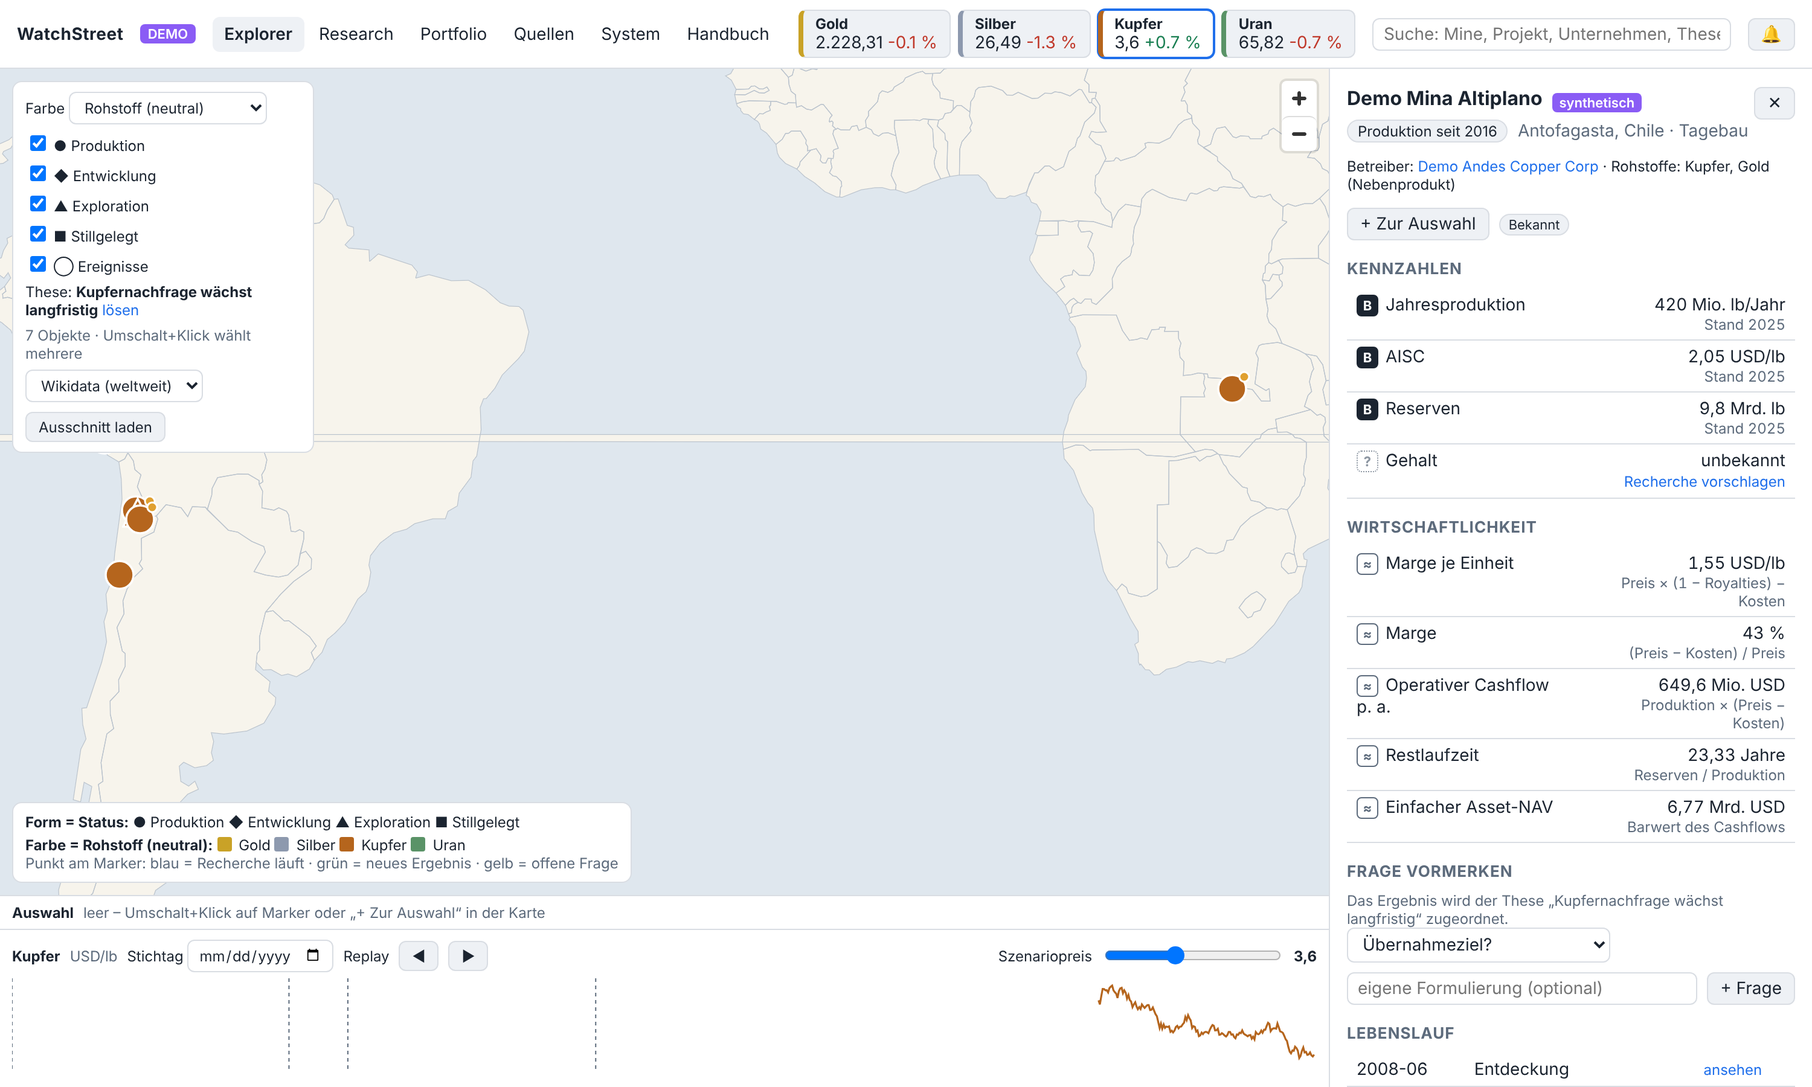
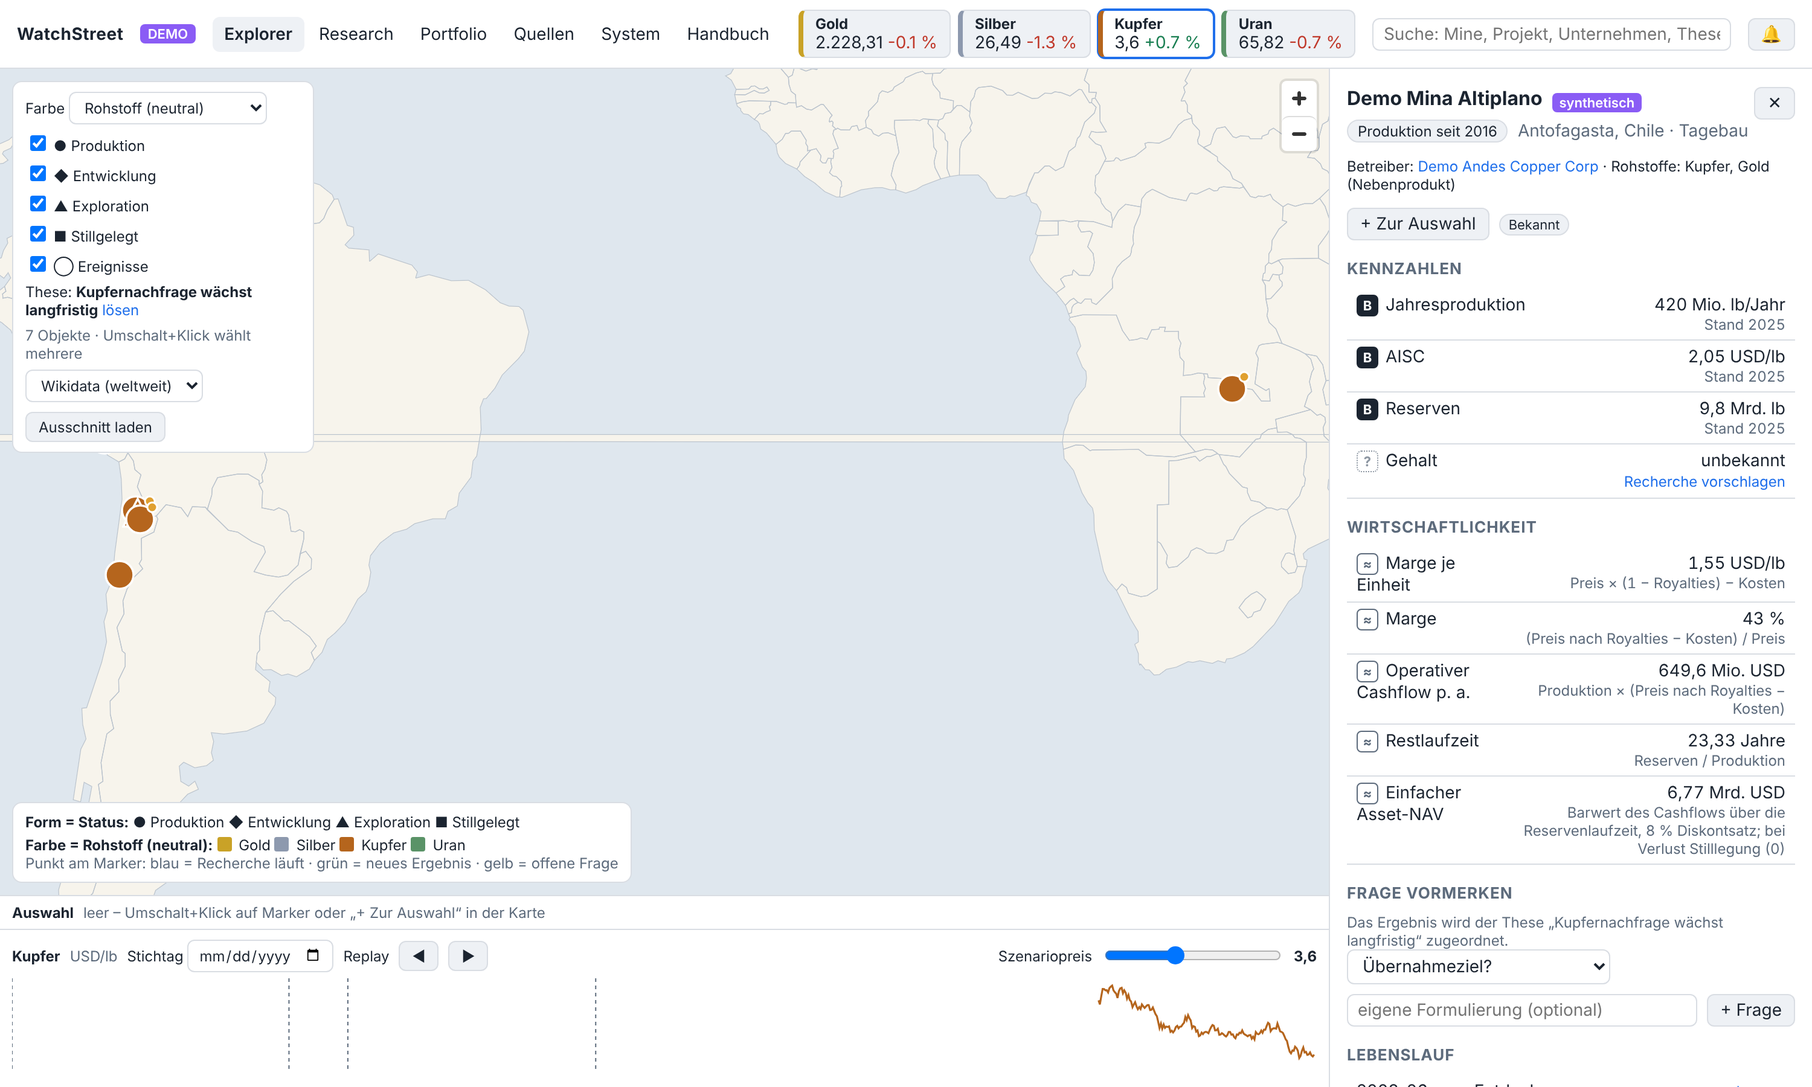
Act on the second investor review of the company view
State when the reported cash runs out, apply the reference date to the
share price and financings, validate financing entries, stop duplicate
user proposals, and show how complete the asset NAV is. Price leverage
is hidden where it does not apply and no longer counts losing mines.

Claude-Session: https://claude.ai/code/session_01DPD6q6Wm3yEuK1UiySpCLg

Changed region(s): [[0.744, 0.5289, 0.992, 1.0], [0.93, 0.9022, 0.992, 0.9333], [0.806, 0.4978, 0.837, 0.5289]]

diff --git a/frontend/src/CompanyPanel.tsx b/frontend/src/CompanyPanel.tsx
@@ -29,7 +29,7 @@ export function CompanyPanel({ id, state, update, tick, onChanged, notify }: Pro
   const [open, setOpen] = useState("");
   const [entry, setEntry] = useState({ metric: "cash", value: "" });
   const [person, setPerson] = useState({ name: "", role: "", track_record: "" });
-  const [fin, setFin] = useState({ day: "", amount: "", price: "", note: "" });
+  const [fin, setFin] = useState({ day: "", amount: "", price: "", note: "", kind: "equity" });
   useEffect(() => {
     get(`/companies/${id}`, viewParams(state)).then(setData).catch(() => setData(null));
   }, [id, state.asof, state.view, state.sc, tick]);
@@ -50,7 +50,7 @@ export function CompanyPanel({ id, state, update, tick, onChanged, notify }: Pro
     act(() => post("/facts", { subject_type: "company", subject_id: id, metric: entry.metric, ...(isText ? { text: entry.value } : { value: Number(entry.value) }) }), "Kennzahl gespeichert").then(() => setEntry({ ...entry, value: "" }));
   const savePerson = () => act(() => post(`/companies/${id}/people`, person), "Person erfasst").then(() => setPerson({ name: "", role: "", track_record: "" }));
   const saveFin = () =>
-    act(() => post(`/companies/${id}/financings`, { day: fin.day, note: fin.note, ...(fin.amount ? { amount: Number(fin.amount) } : {}), ...(fin.price ? { price: Number(fin.price) } : {}) }), "Finanzierung erfasst").then(() => setFin({ day: "", amount: "", price: "", note: "" }));
+    act(() => post(`/companies/${id}/financings`, { day: fin.day, note: fin.note, kind: fin.kind, ...(fin.amount ? { amount: Number(fin.amount) } : {}), ...(fin.price ? { price: Number(fin.price) } : {}) }), "Finanzierung erfasst").then(() => setFin({ day: "", amount: "", price: "", note: "", kind: "equity" }));
   const answered = data.checklist.filter((q: Json) => q.answered).length;
   return (
     <div data-testid="company-panel">
@@ -124,13 +124,17 @@ export function CompanyPanel({ id, state, update, tick, onChanged, notify }: Pro
           <summary className="small">Finanzierung erfassen</summary>
           <div className="row">
             <input type="date" value={fin.day} onChange={(e) => setFin({ ...fin, day: e.target.value })} data-testid="fin-day" />
+            <select value={fin.kind} onChange={(e) => setFin({ ...fin, kind: e.target.value })}>
+              <option value="equity">Eigenkapital</option><option value="debt">Fremdkapital</option><option value="royalty_sale">Royalty-Verkauf</option>
+            </select>
             <input type="number" placeholder="Betrag USD" value={fin.amount} onChange={(e) => setFin({ ...fin, amount: e.target.value })} />
             <input type="number" placeholder="Preis je Aktie" value={fin.price} onChange={(e) => setFin({ ...fin, price: e.target.value })} />
           </div>
           <div className="row">
             <input className="grow" placeholder="Notiz, z. B. mit Warrants, Zeichner" value={fin.note} onChange={(e) => setFin({ ...fin, note: e.target.value })} />
-            <button disabled={!fin.day} onClick={saveFin}>Speichern</button>
+            <button disabled={!fin.day || !fin.amount} onClick={saveFin}>Speichern</button>
           </div>
+          <p className="small muted">Kasse und Aktienzahl oben bleiben auf dem Bilanzstichtag; eine spätere Finanzierung wird dort nicht eingerechnet.</p>
         </details>
       </div>
 
@@ -142,8 +146,9 @@ export function CompanyPanel({ id, state, update, tick, onChanged, notify }: Pro
 
       <div className="section">
         <h3>Preishebel (anteiliger Cashflow p. a. der produzierenden Objekte)</h3>
+        {data.sensitivity.length === 0 && <p className="muted small">Nicht anwendbar: kein produzierendes Objekt mit Eigentumsanteil und bekannten Kosten.</p>}
         <table><tbody>
-          <tr>{data.sensitivity.map((row: Json) => <th key={row.change}>{row.change === 0 ? "heute" : `${row.change > 0 ? "+" : ""}${row.change * 100} %`}</th>)}</tr>
+          <tr>{data.sensitivity.map((row: Json) => <th key={row.change}>{row.change === 0 ? (state.sc ? "Szenario" : "heute") : `${row.change > 0 ? "+" : ""}${row.change * 100} %`}</th>)}</tr>
           <tr>{data.sensitivity.map((row: Json) => <td key={row.change} className={`n ${row.cash_flow < 0 ? "down" : ""}`}>{num(row.cash_flow)}</td>)}</tr>
         </tbody></table>
         <p className="small muted">Alle Rohstoffpreise bewegen sich gleich; Kosten bleiben fest.</p>

diff --git a/src/watchstreet/services/companies.py b/src/watchstreet/services/companies.py
@@ -6,6 +6,7 @@ them. Everything derived here names its formula and inherits the weakest origin 
 
 from collections.abc import Mapping
 from dataclasses import dataclass, replace
+from datetime import date
 from typing import Any
 
 from sqlalchemy import select
@@ -88,6 +89,28 @@ def _derived(
     }
 
 
+def _cash_empty(
+    empty_on: date | None, reference: date, inputs: tuple[Fact | None, ...]
+) -> dict[str, Any]:
+    """States plainly when the reported cash is used up; an old balance sheet must not look fresh."""
+    formula = "Bilanzstichtag + Reichweite; spätere Finanzierungen sind nicht eingerechnet"
+    label = "Kasse rechnerisch leer"
+    if empty_on is None:
+        return {
+            "metric": "cash_empty",
+            "label": label,
+            "provenance": Provenance.UNKNOWN,
+            "formula": formula,
+        }
+    word = "seit" if empty_on <= reference else "am"
+    return {
+        "metric": "cash_empty", "label": label, "text": f"{word} {empty_on:%d.%m.%Y}",
+        "provenance": Provenance.DERIVED, "claim_kind": "actual", "formula": formula,
+        "stale": empty_on <= reference, "origin": DataOrigin.ENGINE,
+        "input_fact_ids": [f.id for f in inputs if f is not None],
+    }  # fmt: skip
+
+
 def _value(fact: Fact | None) -> float | None:
     return fact.value if fact else None
 
@@ -100,9 +123,16 @@ def owner_share(stakes: list[Stake], company_id: int) -> float:
     return (shares[0] or 0.0) / PERCENT if shares else 0.0
 
 
-def _attributable(bundle: Bundle, company_id: int, ctx: ViewContext) -> tuple[float | None, float]:
-    """(sum of simple asset NAVs, sum of yearly cash flow) attributable to the company."""
-    nav_total, cash_flow, any_nav = 0.0, 0.0, False
+@dataclass(frozen=True)
+class Attributable:
+    nav: float | None  # sum of the simple asset NAVs, by ownership
+    cash_flow: float  # per year, by ownership
+    valued: int  # producing assets that entered the NAV
+    producing: int
+
+
+def _attributable(bundle: Bundle, company_id: int, ctx: ViewContext) -> Attributable:
+    nav_total, cash_flow, valued, producing = 0.0, 0.0, 0, 0
     for asset in bundle.assets:
         period = status_on(asset, ctx.reference)
         if period is None or period.status not in PRODUCING_STATUSES:
@@ -110,14 +140,15 @@ def _attributable(bundle: Bundle, company_id: int, ctx: ViewContext) -> tuple[fl
         facts = latest_per_metric(bundle.facts.get(asset.id, []), ctx.as_of, ctx.view)
         econ = asset_economics(asset, facts, period.status, ctx)
         share = owner_share(stakes_on(asset, ctx.reference), company_id)
-        if econ is None:
+        producing += 1
+        if econ is None or share <= 0:
             continue
         if econ.result.nav is not None:
             nav_total += econ.result.nav.mid * share
-            any_nav = True
+            valued += 1
         if econ.result.cash_flow is not None:
-            cash_flow += econ.result.cash_flow.mid * share
-    return (nav_total if any_nav else None), cash_flow
+            cash_flow += max(econ.result.cash_flow.mid, 0.0) * share  # a losing mine is closed
+    return Attributable(nav_total if valued else None, cash_flow, valued, producing)
 
 
 def _open_capex(
@@ -144,8 +175,10 @@ def _sensitivity(bundle: Bundle, company_id: int, ctx: ViewContext) -> list[dict
     rows = []
     for change in SENSITIVITY_FACTORS:
         shifted = replace(ctx, prices={k: v * (1 + change) for k, v in ctx.prices.items()})
-        rows.append({"change": change, "cash_flow": _attributable(bundle, company_id, shifted)[1]})
-    return rows
+        rows.append(
+            {"change": change, "cash_flow": _attributable(bundle, company_id, shifted).cash_flow}
+        )
+    return rows if _attributable(bundle, company_id, ctx).valued else []
 
 
 def _burdens(bundle: Bundle, ctx: ViewContext) -> list[dict[str, Any]]:
@@ -172,7 +205,7 @@ def _checklist(
 ) -> list[dict[str, Any]]:
     """Answered means evidence is on file; it does not mean the answer is good."""
     evidence = {
-        "people": bool(people),
+        "people": any(p.track_record.strip() for p in people),
         "financings": bool(financings),
         "costs": any(m["provenance"] != Provenance.UNKNOWN for c in cards for m in c["economics"]),
         "royalties": bool(burdens),
@@ -199,24 +232,31 @@ def company_view(
     financings = list(
         session.scalars(
             select(Financing)
-            .where(Financing.company_id == company.id)
+            .where(Financing.company_id == company.id, Financing.day <= ctx.reference)
             .order_by(Financing.day.desc())
         )
     )
     cash, debt, burn = facts.get("cash"), facts.get("debt"), facts.get("burn_rate")
     shares, diluted = facts.get("shares_outstanding"), facts.get("shares_diluted")
-    quote = market.try_quote(company.stock.symbol) if company.stock else None
+    # only today's quote is known here; a past reference date gets no price instead of today's
+    quote = market.try_quote(company.stock.symbol) if company.stock and not ctx.as_of else None
     market_cap = quote.price * shares.value if quote and shares and shares.value else None
     net = ratios.net_cash(_value(cash), _value(debt))
-    nav_sum, _cash_flow = _attributable(bundle, company.id, ctx)
-    burdens = _burdens(bundle, ctx)
+    attributable = _attributable(bundle, company.id, ctx)
+    nav_sum = attributable.nav
     capex, capex_facts = _open_capex(bundle, company.id, ctx)
+    runway = ratios.runway_months(_value(cash), _value(burn))
+    empty_on = ratios.cash_empty_on(cash.period_end if cash else None, runway)
+    gap = ratios.funding_gap(capex, _value(cash))
+    cap_diluted = quote.price * diluted.value if quote and diluted and diluted.value else None
+    burdens = _burdens(bundle, ctx)
     derived = [
         _derived("net_cash", "Nettokasse", net, "USD", "Kasse − Finanzschulden", (cash, debt)),
         _derived(
-            "runway_months", "Reichweite", ratios.runway_months(_value(cash), _value(burn)),
+            "runway_months", "Reichweite ab Bilanzstichtag", runway,
             "Monate", "Kasse / Mittelabfluss je Quartal × 3", (cash, burn),
         ),
+        _cash_empty(empty_on, ctx.reference, (cash, burn)),
         _derived(
             "dilution_overhang", "Verwässerungsüberhang",
             ratios.dilution_overhang(_value(shares), _value(diluted)),
@@ -224,6 +264,10 @@ def company_view(
         ),
         _derived(
             "market_cap", "Börsenwert", market_cap, "USD", "Kurs × ausstehende Aktien", (shares,)
+        ),
+        _derived(
+            "market_cap_diluted", "Börsenwert voll verwässert", cap_diluted, "USD",
+            "Kurs × Aktien voll verwässert", (diluted,),
         ),
         _derived(
             "enterprise_value", "Unternehmenswert (EV)",
@@ -235,13 +279,20 @@ def company_view(
             "Σ Capex laut Studie × Eigentumsanteil, nur Objekte ohne Produktion", tuple(capex_facts),
         ),
         _derived(
-            "funding_gap", "Finanzierungslücke", ratios.funding_gap(capex, _value(cash)), "USD",
+            "funding_gap", "Finanzierungslücke", gap, "USD",
             "Capex der Projekte − Kasse (mindestens 0): muss über Aktien, Schulden oder Royalties beschafft werden",
             (cash, *capex_facts),
         ),
         _derived(
+            "gap_to_market_cap", "Finanzierungslücke / Börsenwert", ratios.ratio(gap, market_cap),
+            "×", "Finanzierungslücke / Börsenwert: Mass für die bevorstehende Verwässerung",
+            (cash, shares, *capex_facts),
+        ),
+        _derived(
             "nav_sum", "Summe einfacher Asset-NAV (anteilig)", nav_sum, "USD",
-            "Σ Asset-NAV × Eigentumsanteil – ohne Steuern, Investitionen, Schulden", (),
+            f"Σ Asset-NAV × Eigentumsanteil, aus {attributable.valued} von "
+            f"{attributable.producing} produzierenden Objekten – ohne Steuern, Investitionen, Schulden",
+            (),
         ),
         _derived(
             "p_nav", "Börsenwert / Asset-NAV", ratios.ratio(market_cap, nav_sum), "×",

diff --git a/tests/test_explorer.py b/tests/test_explorer.py
@@ -837,3 +837,25 @@ def test_funding_gap_ev_and_user_entries_for_people_and_financings(client, sessi
 def _cash(client, company_id):
     metrics = client.get(f"{API}/companies/{company_id}").json()["metrics"]
     return next(m["value"] for m in metrics if m["metric"] == "cash")
+
+
+def test_company_view_is_honest_about_dates_duplicates_and_coverage(client, session):
+    junior = _company_id(session, "Demo Junior Explorers Ltd")
+    view = client.get(f"{API}/companies/{junior}").json()
+    derived = {m["metric"]: m for m in view["derived"]}
+    assert derived["cash_empty"]["text"].startswith("seit ") and derived["cash_empty"]["stale"]
+    assert derived["gap_to_market_cap"]["value"] > 1
+    assert derived["market_cap_diluted"]["value"] > derived["market_cap"]["value"]
+    assert view["sensitivity"] == []  # nothing producing: not applicable instead of zeros
+    future = {"day": "2099-01-01", "amount": 1e6}
+    assert client.post(f"{API}/companies/{junior}/financings", json=future).status_code == 422
+    assert (
+        client.post(f"{API}/companies/{junior}/financings", json={"day": "2026-01-01"}).status_code
+        == 422
+    )
+    past = client.get(f"{API}/companies/{junior}", params={"asof": "2020-01-01"}).json()
+    assert past["financings"] == [] and past["price"] is None
+    body = {"subject_type": "company", "subject_id": junior, "template": "management"}
+    first = client.post(f"{API}/proposals", json=body).json()
+    second = client.post(f"{API}/proposals", json=body).json()
+    assert first["id"] == second["id"]

diff --git a/src/watchstreet/web/api_explorer.py b/src/watchstreet/web/api_explorer.py
@@ -267,7 +267,7 @@ class PersonBody(BaseModel):
 class FinancingBody(BaseModel):
     day: date
     kind: Literal["equity", "debt", "royalty_sale"] = "equity"
-    amount: float | None = Field(default=None, gt=0)
+    amount: float = Field(gt=0)
     price: float | None = Field(default=None, gt=0)
     shares: float | None = Field(default=None, gt=0)
     note: str = ""
@@ -288,6 +288,8 @@ def add_person(company_id: int, body: PersonBody, session: SessionDep) -> dict[s
 def add_financing(company_id: int, body: FinancingBody, session: SessionDep) -> dict[str, int]:
     """A user entry: one capital raise."""
     company = get_or_404(session, Company, company_id)
+    if body.day > utcnow().date():
+        raise HTTPException(status_code=422, detail="Das Datum liegt in der Zukunft")
     financing = Financing(company_id=company.id, origin=DataOrigin.USER, **body.model_dump())
     session.add(financing)
     log_change(

diff --git a/src/watchstreet/economics/company.py b/src/watchstreet/economics/company.py
@@ -1,6 +1,9 @@
 """Company-level ratios (pure). Missing inputs yield ``None``, never a guess."""
 
+from datetime import date, timedelta
+
 MONTHS_PER_QUARTER = 3.0
+DAYS_PER_MONTH = 30.44
 
 
 def net_cash(cash: float | None, debt: float | None) -> float | None:
@@ -37,6 +40,13 @@ def funding_gap(capex: float | None, cash: float | None) -> float | None:
     if capex is None or cash is None:
         return None
     return max(capex - cash, 0.0)
+
+
+def cash_empty_on(as_at: date | None, months: float | None) -> date | None:
+    """The day the cash runs out if the burn continues from the balance sheet date."""
+    if as_at is None or months is None:
+        return None
+    return as_at + timedelta(days=round(months * DAYS_PER_MONTH))
 
 
 def ratio(numerator: float | None, denominator: float | None) -> float | None:

diff --git a/src/watchstreet/services/world.py b/src/watchstreet/services/world.py
@@ -274,14 +274,19 @@ def economics_payload(econ: AssetEconomics | None, commodity: str) -> list[dict[
             econ,
         ),
         _derived(
-            "margin_pct", "Marge", result.margin_pct, "Anteil", "(Preis − Kosten) / Preis", econ
+            "margin_pct",
+            "Marge",
+            result.margin_pct,
+            "Anteil",
+            "(Preis nach Royalties − Kosten) / Preis",
+            econ,
         ),
         _derived(
             "cash_flow",
             "Operativer Cashflow p. a.",
             result.cash_flow,
             "USD",
-            "Produktion × (Preis − Kosten)",
+            "Produktion × (Preis nach Royalties − Kosten)",
             econ,
         ),
         _derived("mine_life", "Restlaufzeit", life, "Jahre", "Reserven / Produktion", econ),

diff --git a/src/watchstreet/services/proposals.py b/src/watchstreet/services/proposals.py
@@ -197,6 +197,14 @@ def create_proposal(  # noqa: PLR0913
         msg = "Die Frage darf nicht leer sein"
         raise ProposalError(msg)
     existing = open_proposals(session, subject_type, subject_id)
+    same = [
+        p
+        for p in existing
+        if (p.origin, p.template_key, p.params, p.question)
+        == (DataOrigin.USER, template_key, params, text)
+    ]
+    if origin == DataOrigin.USER and same:
+        return same[0]  # a second click must not queue the same question twice
     if origin != DataOrigin.USER:
         duplicate = any(p.template_key == template_key and p.params == params for p in existing)
         if duplicate or len(existing) >= MAX_OPEN_PROPOSALS_PER_SUBJECT:

diff --git a/src/watchstreet/services/facts.py b/src/watchstreet/services/facts.py
@@ -120,9 +120,9 @@ def current_fact(
 
 def display_value(fact: Fact) -> str:
     if fact.value is not None:
-        return f"{fact.value:g} {fact.unit}".strip()
+        return f"{fact.value:,.10g} {fact.unit}".strip()
     if fact.value_low is not None and fact.value_high is not None:
-        return f"{fact.value_low:g}–{fact.value_high:g} {fact.unit}".strip()
+        return f"{fact.value_low:,.10g}–{fact.value_high:,.10g} {fact.unit}".strip()
     return fact.text
 
 

diff --git a/docs/spec/requirements-review-2026-11.md b/docs/spec/requirements-review-2026-11.md
@@ -63,6 +63,25 @@ ihrem öffentlich bekannten Vorgehen.
 | SOLL | Nebenproduktpreise im Szenario berücksichtigen | Mengen als Fact |
 | KANN | Quellen nach Trefferhistorie gewichten | Bewertung am Dokument |
 
+## Zweiter Durchlauf (Rule-Sicht, nach Umsetzung der Unternehmensansicht)
+
+Behoben: Datum „Kasse rechnerisch leer“, Stichtag wirkt auch auf Kurs und Finanzierungen, Prüfung des
+Finanzierungsformulars (Betrag Pflicht, kein Zukunftsdatum, Art wählbar), keine doppelten eigenen
+Vorschläge, Preishebel „nicht anwendbar“ statt Nullen und ohne Verlustminen, NAV-Summe nennt ihre
+Abdeckung und zählt nur Objekte mit Eigentumsanteil, Börsenwert voll verwässert, Lücke als Vielfaches
+des Börsenwerts, Formeltexte nennen die Royalty, Zahlen im Lagebericht ohne Exponentialschreibweise.
+
+| Prio | Offen | Begründung |
+|---|---|---|
+| MUSS | Finanzierungen strukturiert (Warrants, Abschlag, Zeichner) mit Pro-forma-Wirkung auf Kasse und Aktienzahl | die Konditionen sind die eigentliche Verwässerung |
+| MUSS | Projektbewertung nach Capex: Studien-NPV/IRR gegen Börsenwert | „Preis gegen Wert“ für Entwickler |
+| MUSS | Eigene Einträge korrigieren und stornieren | Tippfehler dürfen nicht bleiben |
+| SOLL | Personen mit früheren Unternehmen, Aktienbesitz, Insiderkäufen | Menschen zuerst |
+| SOLL | Genehmigungs- und Jurisdiktionsstatus je Projekt | entscheidet, ob gebaut wird |
+| SOLL | Wertmodell für Royalty-Halter; Preishebel für Entwickler | Optionalität |
+| SOLL | Rechercheergebnis „nicht belegt“ statt „abgeschlossen“; Prüfkatalog strenger (Kosten aller Minen) | falsche Sicherheit |
+| KANN | Unternehmensvergleich, Zyklusindikator | |
+
 ## Wo die Anwendung weiterhin zu falscher Sicherheit verleiten kann
 
 * **NAV und Cashflow** lesen sich wie Bewertungen, enthalten aber weder Steuern, Royalties,

diff --git a/docs/user-manual.md b/docs/user-manual.md
@@ -104,11 +104,19 @@ Bewertung.
 Ist eine These aktiv, lässt sich im Herleitungsdialog jede Kennzahl der These als stützende oder
 widersprechende Evidenz zuordnen.
 
+**Wann ist die Kasse leer?** Die Reichweite zählt ab dem Bilanzstichtag, nicht ab heute. Darunter
+steht deshalb „Kasse rechnerisch leer am …“ oder, wenn das Datum schon vorbei ist, „seit …“ mit
+Warnzeichen. Später erfasste Finanzierungen sind darin nicht eingerechnet. Bei einem Stichtag in der
+Vergangenheit werden kein Kurs und keine späteren Finanzierungen gezeigt.
+
 **Finanzierungslücke und Unternehmenswert:** Unter „Abgeleitet“ stehen zusätzlich der Unternehmenswert
 (Börsenwert + Finanzschulden − Kasse), der anteilige Capex der noch nicht produzierenden Projekte und
 die Finanzierungslücke (Capex − Kasse, mindestens 0). Die Lücke zeigt, wie viel Kapital noch beschafft
 werden muss – in aller Regel über neue Aktien. Personen und Finanzierungen lassen sich unter „Person
 erfassen“ und „Finanzierung erfassen“ selbst eintragen; sie gelten als eigene Angabe ohne Quelle.
+Eine Finanzierung braucht Datum (nicht in der Zukunft), Art und Betrag. Zusätzlich stehen der Börsenwert
+voll verwässert und die Finanzierungslücke als Vielfaches des Börsenwerts in der Liste. Die Summe der
+Asset-NAV nennt, aus wie vielen der produzierenden Objekte sie gebildet ist.
 
 ## 5. Auswahl und Vergleich
 
